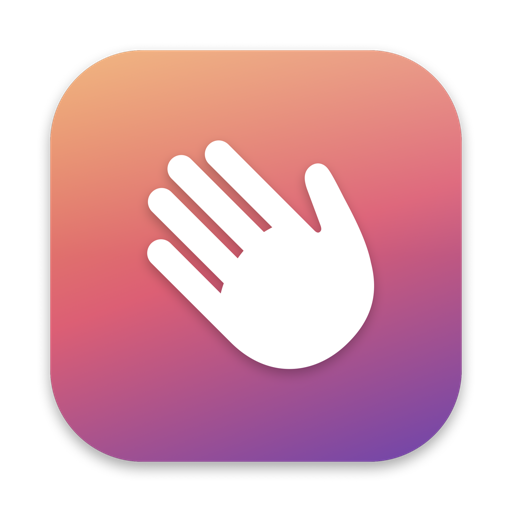
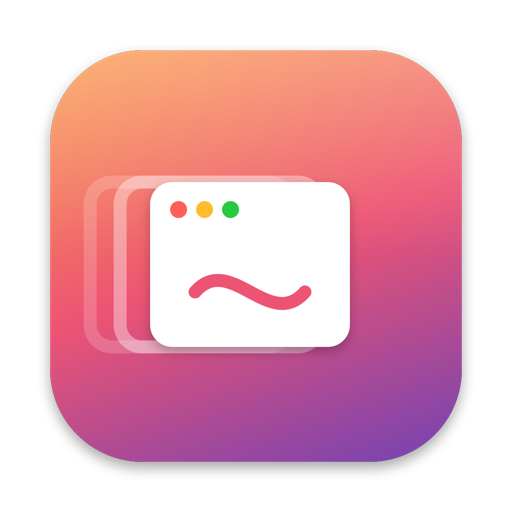
Özgün uygulama simgesi (SF Symbols uygulama simgesinde kullanılamaz)

Changed region(s): [[0.2188, 0.25, 0.75, 0.75], [0.1562, 0.625, 0.1875, 0.6562], [0.1562, 0.5625, 0.1875, 0.5938]]

diff --git a/scripts/make_icon.swift b/scripts/make_icon.swift
@@ -1,41 +1,51 @@
 // Renders Veda's app icon (1024px PNG) to the path given as argv[1].
+// Original artwork drawn with Core Graphics: a window sliding away into a sunset.
+// (No SF Symbols: Apple's license doesn't allow them in app icons.)
 import Cocoa
 
-let size: CGFloat = 1024
-let img = NSImage(size: NSSize(width: size, height: size))
-img.lockFocus()
+let S: CGFloat = 1024
+let rep = NSBitmapImageRep(bitmapDataPlanes: nil, pixelsWide: Int(S), pixelsHigh: Int(S), bitsPerSample: 8,
+                           samplesPerPixel: 4, hasAlpha: true, isPlanar: false, colorSpaceName: .deviceRGB, bytesPerRow: 0, bitsPerPixel: 0)!
+NSGraphicsContext.current = NSGraphicsContext(bitmapImageRep: rep)
 let ctx = NSGraphicsContext.current!.cgContext
+func c(_ r: CGFloat, _ g: CGFloat, _ b: CGFloat, _ a: CGFloat = 1) -> NSColor { NSColor(srgbRed: r/255, green: g/255, blue: b/255, alpha: a) }
 
 // macOS-style rounded square with a soft shadow
-let inset: CGFloat = 100
-let rect = CGRect(x: inset, y: inset, width: size - 2 * inset, height: size - 2 * inset)
-let path = NSBezierPath(roundedRect: rect, xRadius: 185, yRadius: 185)
+let r = CGRect(x: 100, y: 100, width: S - 200, height: S - 200)
+let shape = NSBezierPath(roundedRect: r, xRadius: 185, yRadius: 185)
 ctx.saveGState()
 ctx.setShadow(offset: CGSize(width: 0, height: -12), blur: 28, color: NSColor.black.withAlphaComponent(0.35).cgColor)
-NSColor.black.setFill(); path.fill()
+NSColor.black.setFill(); shape.fill()
 ctx.restoreGState()
+shape.addClip()
 
-// sunset gradient: "farewell"
-path.addClip()
-let g = NSGradient(colors: [
-    NSColor(srgbRed: 0.98, green: 0.62, blue: 0.30, alpha: 1),
-    NSColor(srgbRed: 0.93, green: 0.33, blue: 0.45, alpha: 1),
-    NSColor(srgbRed: 0.45, green: 0.26, blue: 0.70, alpha: 1),
-], atLocations: [0, 0.5, 1], colorSpace: .sRGB)!
-g.draw(in: rect, angle: -70)
+// sunset gradient + glossy top
+NSGradient(colors: [c(250, 158, 77), c(237, 84, 115), c(115, 66, 179)])!.draw(in: r, angle: -70)
+NSGradient(colors: [NSColor.white.withAlphaComponent(0.22), NSColor.white.withAlphaComponent(0)])!
+    .draw(in: CGRect(x: r.minX, y: r.midY, width: r.width, height: r.height / 2), angle: -90)
 
-// subtle glossy highlight on the top half
-let hl = NSGradient(colors: [NSColor.white.withAlphaComponent(0.22), NSColor.white.withAlphaComponent(0)])!
-hl.draw(in: CGRect(x: rect.minX, y: rect.midY, width: rect.width, height: rect.height / 2), angle: -90)
+// trailing ghost windows (motion)
+for (dx, a) in [(-120.0, 0.18), (-60.0, 0.38)] {
+    NSColor.white.withAlphaComponent(a).setStroke()
+    let p = NSBezierPath(roundedRect: CGRect(x: 300 + dx, y: 330, width: 400, height: 330), xRadius: 44, yRadius: 44)
+    p.lineWidth = 26; p.stroke()
+}
 
-// waving hand
-let cfg = NSImage.SymbolConfiguration(pointSize: 470, weight: .semibold)
-    .applying(.init(paletteColors: [.white]))
-let sym = NSImage(systemSymbolName: "hand.wave.fill", accessibilityDescription: nil)!.withSymbolConfiguration(cfg)!
-let s = sym.size
+// the window
+let w = CGRect(x: 300, y: 330, width: 400, height: 330)
+ctx.saveGState()
 ctx.setShadow(offset: CGSize(width: 0, height: -10), blur: 24, color: NSColor.black.withAlphaComponent(0.25).cgColor)
-sym.draw(in: CGRect(x: (size - s.width) / 2 + 10, y: (size - s.height) / 2 - 6, width: s.width, height: s.height))
+NSColor.white.setFill(); NSBezierPath(roundedRect: w, xRadius: 44, yRadius: 44).fill()
+ctx.restoreGState()
+for (i, col) in [c(255, 95, 87), c(254, 188, 46), c(40, 200, 64)].enumerated() {
+    col.setFill(); NSBezierPath(ovalIn: CGRect(x: w.minX + 40 + CGFloat(i) * 52, y: w.maxY - 72, width: 34, height: 34)).fill()
+}
 
-img.unlockFocus()
-let rep = NSBitmapImageRep(data: img.tiffRepresentation!)!
+// a little waving line inside
+let p = NSBezierPath(); p.lineWidth = 26; p.lineCapStyle = .round
+p.move(to: CGPoint(x: w.minX + 90, y: w.minY + 110))
+p.curve(to: CGPoint(x: w.maxX - 90, y: w.minY + 110),
+        controlPoint1: CGPoint(x: w.minX + 160, y: w.minY + 190), controlPoint2: CGPoint(x: w.maxX - 160, y: w.minY + 30))
+c(237, 84, 115).setStroke(); p.stroke()
+
 try! rep.representation(using: .png, properties: [:])!.write(to: URL(fileURLWithPath: CommandLine.arguments[1]))
